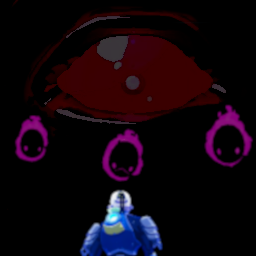
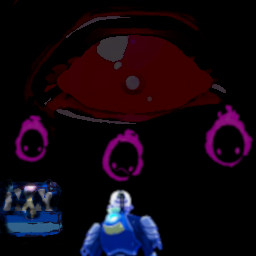
Hailstorm: Fixed various issues with multiplayer sync relating to mimics Hailstorm: Reworked item pickup, both preventing yoinking the item from the still-living mimic and fixing network sync issues with client Hailstorm: Improved item model scaling to prevent a few clipping cases

Changed region(s): [[0.0, 0.6875, 0.25, 0.9375]]

diff --git a/Hailstorm/Mimics.cs b/Hailstorm/Mimics.cs
@@ -26,6 +26,14 @@ namespace JarlykMods.Hailstorm
         {
             IL.RoR2.SceneDirector.PopulateScene += SceneDirectorOnPopulateScene;
             On.RoR2.DeathRewards.OnKilledServer += DeathRewardsOnOnKilledServer;
+
+            //Register mimic state machine state types
+            LoadoutAPI.AddSkill(typeof(MeleeAttackState));
+            LoadoutAPI.AddSkill(typeof(MimicDeathState));
+            LoadoutAPI.AddSkill(typeof(OrientToTargetState));
+            LoadoutAPI.AddSkill(typeof(PounceRecoverState));
+            LoadoutAPI.AddSkill(typeof(PreparePounceState));
+            LoadoutAPI.AddSkill(typeof(SurprisePounceState));
         }
 
         public void Awake()
@@ -97,12 +105,13 @@ namespace JarlykMods.Hailstorm
         private void SetupBody()
         {
             //cloning the mushroom
-            BodyPrefab = PrefabAPI.InstantiateClone(Resources.Load<GameObject>("Prefabs/CharacterBodies/MiniMushroomBody"), "MimicBody");
+            BodyPrefab = Resources.Load<GameObject>("Prefabs/CharacterBodies/MiniMushroomBody").InstantiateClone("MimicBody");
 
             BodyPrefab.GetComponent<NetworkIdentity>().localPlayerAuthority = true;
 
             //instantiate the mimic's model
-            GameObject model = HailstormAssets.MimicModel;
+            //We clone the prefab into a virtual prefab because we need to add an object to it dynamically later in this setup
+            GameObject model = HailstormAssets.MimicModel.InstantiateClone("MimicModel", false);
 
             GameObject modelBase = BodyPrefab.transform.Find("ModelBase").gameObject;
 
@@ -265,7 +274,6 @@ namespace JarlykMods.Hailstorm
 
             //make a hitbox for the chomp
             HitBoxGroup hitBoxGroup = model.AddComponent<HitBoxGroup>();
-            
 
             GameObject chompHitbox = childLocator.FindChild("ChompHitbox").gameObject;
             chompHitbox.transform.localScale = new Vector3(16f/180.0f, 16f/180.0f, 16f/180.0f);
@@ -279,6 +287,43 @@ namespace JarlykMods.Hailstorm
             };
 
             hitBoxGroup.groupName = "Chomp";
+
+            //Find the location where the item will be located
+            var heldItemRoot = model.transform.Find("Armature/chestArmature/Base/HeldItem");
+            if (!heldItemRoot)
+                Debug.Log("Failed to locate held item root for Mimic");
+
+            //Create pickup container to hold the object it will contain
+            var pickupObj = Resources.Load<GameObject>("Prefabs/NetworkedObjects/GenericPickup").InstantiateClone("MimicPickup", false);
+            pickupObj.transform.parent = heldItemRoot;
+            pickupObj.transform.localPosition = Vector3.zero;
+            pickupObj.transform.localScale = Vector3.one;
+            pickupObj.SetActive(true);
+
+            //We don't need to follow gravity, as we're attached to the mimic
+            Object.Destroy(pickupObj.GetComponent<Rigidbody>());
+            Object.Destroy(pickupObj.GetComponent<SphereCollider>());
+            Object.Destroy(pickupObj.transform.Find("PickupTrigger").gameObject);
+
+            //The default pickup scaling is based on volume of first renderer
+            //In order to fit inside the chest consistently, we want to scale based on height of total bounds
+            //To do this, we replace the PickupDisplay with our own ScaledPickupDisplay
+            var displayObj = pickupObj.transform.Find("PickupDisplay").gameObject;
+            var display = displayObj.GetComponent<PickupDisplay>();
+            var newDisplay = displayObj.AddComponent<HeightScaledPickupDisplay>();
+            newDisplay.CopyFrom(display);
+            Object.Destroy(display);
+
+            //Normalize world scale to desired size
+            var scaleAdj = 1.0f;
+            pickupObj.transform.localScale = new Vector3(1f, 1f, 1f);
+            pickupObj.transform.localScale = scaleAdj*new Vector3(1.0f/pickupObj.transform.lossyScale.x,
+                                                                  1.0f/pickupObj.transform.lossyScale.y,
+                                                                  1.0f/pickupObj.transform.lossyScale.z);
+
+            //Normalize to desired position
+            var translation = -1.3f*Vector3.up;
+            pickupObj.transform.position += pickupObj.transform.rotation*translation;
 
             //footstep sounds because mimics have feet
             FootstepHandler footstepHandler = model.AddComponent<FootstepHandler>();
@@ -403,8 +448,6 @@ namespace JarlykMods.Hailstorm
 
         private void UtilitySetup()
         {
-            //LoadoutAPI.AddSkill(typeof());
-
             SkillDef mySkillDef = ScriptableObject.CreateInstance<SkillDef>();
             mySkillDef.skillNameToken = "MIMIC_POUNCE";
             mySkillDef.activationState = new SerializableEntityStateType(typeof(PreparePounceState));

diff --git a/Hailstorm/MimicStates/OrientToTargetState.cs b/Hailstorm/MimicStates/OrientToTargetState.cs
@@ -6,6 +6,7 @@ using KinematicCharacterController;
 using RoR2;
 using RoR2.CharacterAI;
 using UnityEngine;
+using UnityEngine.Networking;
 
 namespace JarlykMods.Hailstorm.MimicStates
 {
@@ -22,48 +23,45 @@ namespace JarlykMods.Hailstorm.MimicStates
         {
             base.OnEnter();
 
-            if (isAuthority)
+            var context = characterBody.GetComponent<MimicContext>();
+            if (!context)
+                return;
+        
+            _target = context.target;
+            _startRot = context.initialRotation;
+
+            var targetPos = _target.transform.position;
+            var myPos = characterBody.transform.position;
+            _startPos = myPos;
+            var lookDir = (targetPos - myPos).normalized;
+            _targetRot = Util.QuaternionSafeLookRotation(new Vector3(lookDir.x, 0, lookDir.z), Vector3.up);
+            if (_startRot == null)
+                return;
+
+            //By default, do simple Slerp, which is likely mostly a y twist
+            _interRot = Quaternion.Slerp(_startRot, _targetRot, 0.5f);
+
+            //If twist angle is too large, though, adjust it to be a backflip by rotating around the direction of motion
+            if (Mathf.DeltaAngle(_targetRot.eulerAngles.y, _startRot.eulerAngles.y) > 30)
             {
-                var context = characterBody.GetComponent<MimicContext>();
-                if (!context)
-                    return;
-            
-                _target = context.target;
-                _startRot = context.initialRotation;
-
-                var targetPos = _target.transform.position;
-                var myPos = characterBody.transform.position;
-                _startPos = myPos;
-                var lookDir = (targetPos - myPos).normalized;
-                _targetRot = Util.QuaternionSafeLookRotation(new Vector3(lookDir.x, 0, lookDir.z), Vector3.up);
-                if (_startRot == null)
-                    return;
-
-                //By default, do simple Slerp, which is likely mostly a y twist
-                _interRot = Quaternion.Slerp(_startRot, _targetRot, 0.5f);
-
-                //If twist angle is too large, though, adjust it to be a backflip by rotating around the direction of motion
-                if (Mathf.DeltaAngle(_targetRot.eulerAngles.y, _startRot.eulerAngles.y) > 30)
-                {
-                    _interRot = Quaternion.AngleAxis(90, lookDir)*_interRot;
-                }
-
-                _orientT = new AnimatedFloat();
-                _orientT.Accel = 10.0f;
-                _orientT.MaxSpeed = 3.0f;
-                _orientT.Setpoint = 1.0f;
+                _interRot = Quaternion.AngleAxis(90, lookDir)*_interRot;
             }
+
+            _orientT = new AnimatedFloat();
+            _orientT.Accel = 10.0f;
+            _orientT.MaxSpeed = 3.0f;
+            _orientT.Setpoint = 1.0f;
         }
 
         public override void FixedUpdate()
         {
             base.FixedUpdate();
-            if (!isAuthority)
-                return;
 
             if (_orientT == null || !_target)
             {
-                outer.SetNextStateToMain();
+                if (isAuthority)
+                    outer.SetNextStateToMain();
+
                 return;
             }
 
@@ -84,7 +82,8 @@ namespace JarlykMods.Hailstorm.MimicStates
 
                 characterBody.transform.rotation = Quaternion.Slerp(_interRot, _targetRot, 2*(t - 0.5f));
                 characterBody.transform.position = _startPos + new Vector3(0, 4.0f*Mathf.Sqrt(2*Mathf.Abs(1.0f-t)), 0);
-                characterBody.GetComponent<Rigidbody>().detectCollisions = true;
+                if (isAuthority)
+                    characterBody.GetComponent<Rigidbody>().detectCollisions = true;
             }
 
             //Once we're done flipping, reactivate character direction controller and proceed to surprise pounce
@@ -104,7 +103,8 @@ namespace JarlykMods.Hailstorm.MimicStates
                 kinMotor.SetRotation(_targetRot);
                 kinMotor.enabled = true;
 
-                outer.SetNextState(Instantiate(typeof(SurprisePounceState)));
+                if (isAuthority)
+                    outer.SetNextState(Instantiate(typeof(SurprisePounceState)));
             }
         }
     }

diff --git a/Hailstorm/ChestMimicSpawner.cs b/Hailstorm/ChestMimicSpawner.cs
@@ -249,43 +249,13 @@ namespace JarlykMods.Hailstorm
             var ai = mimicMaster.GetComponent<BaseAI>();
             ai.customTarget.gameObject = message.target;
 
-            //Find the location where the item will be located
-            var heldItemRoot = mimicModel.transform.Find("Armature/chestArmature/Base/HeldItem");
-            if (!heldItemRoot)
-                Debug.Log("Failed to locate held item root for Mimic");
+            var pickup = mimicModel.GetComponentInChildren<GenericPickupController>();
+            pickup.enabled = false;
+            pickup.NetworkpickupIndex = message.item;
 
-            //Anchor the item to the location
-            var pickupInfo = new GenericPickupController.CreatePickupInfo();
-            pickupInfo.pickupIndex = message.item;
-            pickupInfo.position = Vector3.zero;
-            var pickup = GenericPickupController.CreatePickup(pickupInfo);
-            Destroy(pickup.GetComponent<Rigidbody>());
-            Destroy(pickup.GetComponent<SphereCollider>());
-            pickup.transform.SetParent(heldItemRoot);
-            pickup.transform.localPosition = Vector3.zero;
-
-            //The default pickup scaling is based on volume of first renderer
-            //In order to fit inside the chest consistently, we want to scale based on height of total bounds
-            //To do this, we replace the PickupDisplay without own ScaledPickupDisplay
-            var displayObj = pickup.transform.Find("PickupDisplay").gameObject;
-            var display = displayObj.GetComponent<PickupDisplay>();
-            var newDisplay = displayObj.AddComponent<HeightScaledPickupDisplay>();
-            newDisplay.CopyFrom(display);
-            Destroy(display);
-            newDisplay.SetPickupIndex(pickupInfo.pickupIndex);
-
-            //Normalize world scale to desired size
-            var scaleAdj = 0.4f;
-            pickup.transform.localScale = new Vector3(1f, 1f, 1f);
-            pickup.transform.localScale = scaleAdj*new Vector3(1.0f/pickup.transform.lossyScale.x,
-                                                               1.0f/pickup.transform.lossyScale.y,
-                                                               1.0f/pickup.transform.lossyScale.z);
-
-            //Normalize to desired position
-            var translation = -0.4f*Vector3.up;
-            pickup.transform.position += pickup.transform.rotation*translation;
+            var pickupDisplay = mimicModel.GetComponentInChildren<HeightScaledPickupDisplay>();
+            pickupDisplay.SetPickupIndex(message.item);
         }
-
 
         private static void RemoveNode(DirectorCore directorCore, NodeGraph.NodeIndex node)
         {

diff --git a/Hailstorm/HeightScaledPickupDisplay.cs b/Hailstorm/HeightScaledPickupDisplay.cs
@@ -68,25 +68,30 @@ namespace JarlykMods.Hailstorm
                 return;
             DestroyModel();
             modelPrefab = gameObject;
-            modelScale = transform.lossyScale.x;
             if (!dontInstantiatePickupModel && modelPrefab != null)
             {
-                modelObject = Instantiate<GameObject>(modelPrefab);
-                var renderers = modelObject.GetComponentsInChildren<Renderer>();
-                var bounds = new Bounds(Vector3.zero, Vector3.zero);
-                foreach (var renderer in renderers)
-                {
-                    modelObject.transform.rotation = Quaternion.identity;
-                    bounds.Encapsulate(renderer.bounds);
-                    if (highlight && !highlight.targetRenderer)
-                        highlight.targetRenderer = renderer;
-                }
-
-                modelScale *= 1.0f/bounds.size.y;
+                modelObject = Instantiate(modelPrefab);
                 modelObject.transform.parent = transform;
-                modelObject.transform.localPosition = localModelPivotPosition;
-                modelObject.transform.localRotation = Quaternion.identity;
-                modelObject.transform.localScale = new Vector3(modelScale, modelScale, modelScale);
+                modelObject.transform.rotation = Quaternion.identity;
+
+                var renderers = modelObject.GetComponentsInChildren<Renderer>();
+                if (renderers.Length > 0)
+                {
+                    var bounds = renderers[0].bounds;
+                    if (highlight && !highlight.targetRenderer)
+                        highlight.targetRenderer = renderers[0];
+
+                    for (var i = 1; i < renderers.Length; i++)
+                    {
+                        bounds.Encapsulate(renderers[i].bounds);
+                    }
+
+                    var ls = modelObject.transform.lossyScale;
+                    modelScale = 0.9f*ls.y/Mathf.Max(bounds.size.x, bounds.size.y, bounds.size.z);
+                    modelObject.transform.position = -1*bounds.center;
+                    modelObject.transform.localRotation = Quaternion.identity;
+                    modelObject.transform.localScale = new Vector3(modelScale/ls.x, modelScale/ls.y, modelScale/ls.z);
+                }
             }
             if ((bool)tier1ParticleEffect)
                 tier1ParticleEffect.SetActive(false);

diff --git a/Hailstorm/MimicStates/MimicDeathState.cs b/Hailstorm/MimicStates/MimicDeathState.cs
@@ -23,13 +23,19 @@ namespace JarlykMods.Hailstorm.MimicStates
 
         public override void OnExit()
         {
-            if (isAuthority)
+            //Split the item pickup from the mimic model
+            var pickup = _modelTransform.GetComponentInChildren<GenericPickupController>();
+            if (pickup)
             {
-                //Split the item pickup from the mimic model
-                var pickup = _modelTransform.GetComponentInChildren<GenericPickupController>();
-                if (pickup)
-                    pickup.gameObject.transform.SetParent(null, true);
+                if (isAuthority)
+                {
+                    PickupDropletController.CreatePickupDroplet(pickup.pickupIndex, pickup.transform.position,
+                                                                Vector3.zero);
+                }
+
+                pickup.gameObject.SetActive(false);
             }
+
             base.OnExit();
         }
     }

diff --git a/Hailstorm/HailstormPlugin.cs b/Hailstorm/HailstormPlugin.cs
@@ -64,6 +64,8 @@ namespace JarlykMods.Hailstorm
             _rng = new Xoroshiro128Plus((ulong) DateTime.Now.Ticks);
 
             CommandHelper.AddToConsoleWhenReady();
+
+            //On.RoR2.Networking.GameNetworkManager.OnClientConnect += (self, user, t) => { };
         }
 
         private void Awake()

diff --git a/Hailstorm/MimicStates/MeleeAttackState.cs b/Hailstorm/MimicStates/MeleeAttackState.cs
@@ -6,7 +6,7 @@ using UnityEngine;
 
 namespace JarlykMods.Hailstorm.MimicStates
 {
-    public sealed class MeleeAttackState : BaseState
+    public sealed class MeleeAttackState : BaseSkillState
     {
         public static float baseDuration = 1.2f;
         public static float forceMagnitude = 1000f;

diff --git a/Hailstorm/MimicStates/PreparePounceState.cs b/Hailstorm/MimicStates/PreparePounceState.cs
@@ -3,7 +3,7 @@ using UnityEngine;
 
 namespace JarlykMods.Hailstorm.MimicStates
 {
-    public sealed class PreparePounceState : BaseState
+    public sealed class PreparePounceState : BaseSkillState
     {
         public float baseDuration = 1.2f;
         private float _duration;
